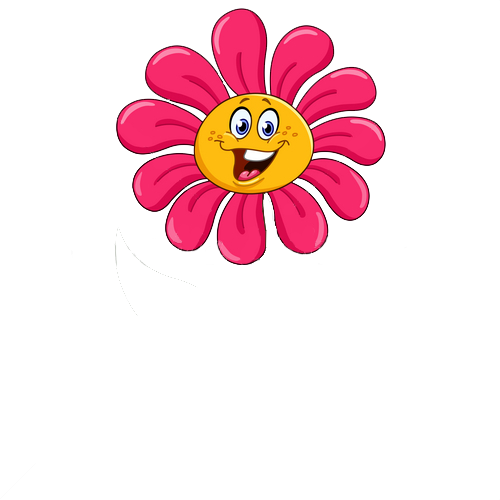
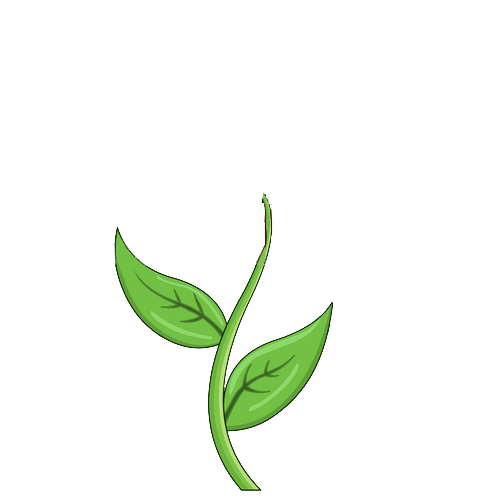
de blije bloem 🌻

Changed region(s): [[0.21, 0.0, 0.78, 0.99]]

diff --git a/app/styles/modules/_characters.scss b/app/styles/modules/_characters.scss
@@ -1,6 +1,18 @@
 $char--size: 10vw;
 $characters: vogel worm bever tak bloem;
 
+@include keyframes(bloem) {
+  0% {
+    @include transform(rotate(5deg));
+  }
+  50% {
+    @include transform(rotate(-5deg));
+  }
+  100% {
+    @include transform(rotate(5deg));
+  }
+}
+
 @each $animal in $characters {
   .char.#{$animal} {
     background: center/contain url(/images/characters/#{$animal}.png) no-repeat;
@@ -20,6 +32,13 @@ $characters: vogel worm bever tak bloem;
   top: 65%;
   right: 1%;
   @include size($char--size*2);
+  &:before {
+    content: '';
+    background: center/contain url(/images/characters/bloem-hoofd.png) no-repeat;
+    @include size($char--size*2);
+    position: absolute;
+    @include animation(bloem 3s ease-in-out infinite);
+  }
 }
 
 .char.worm {
